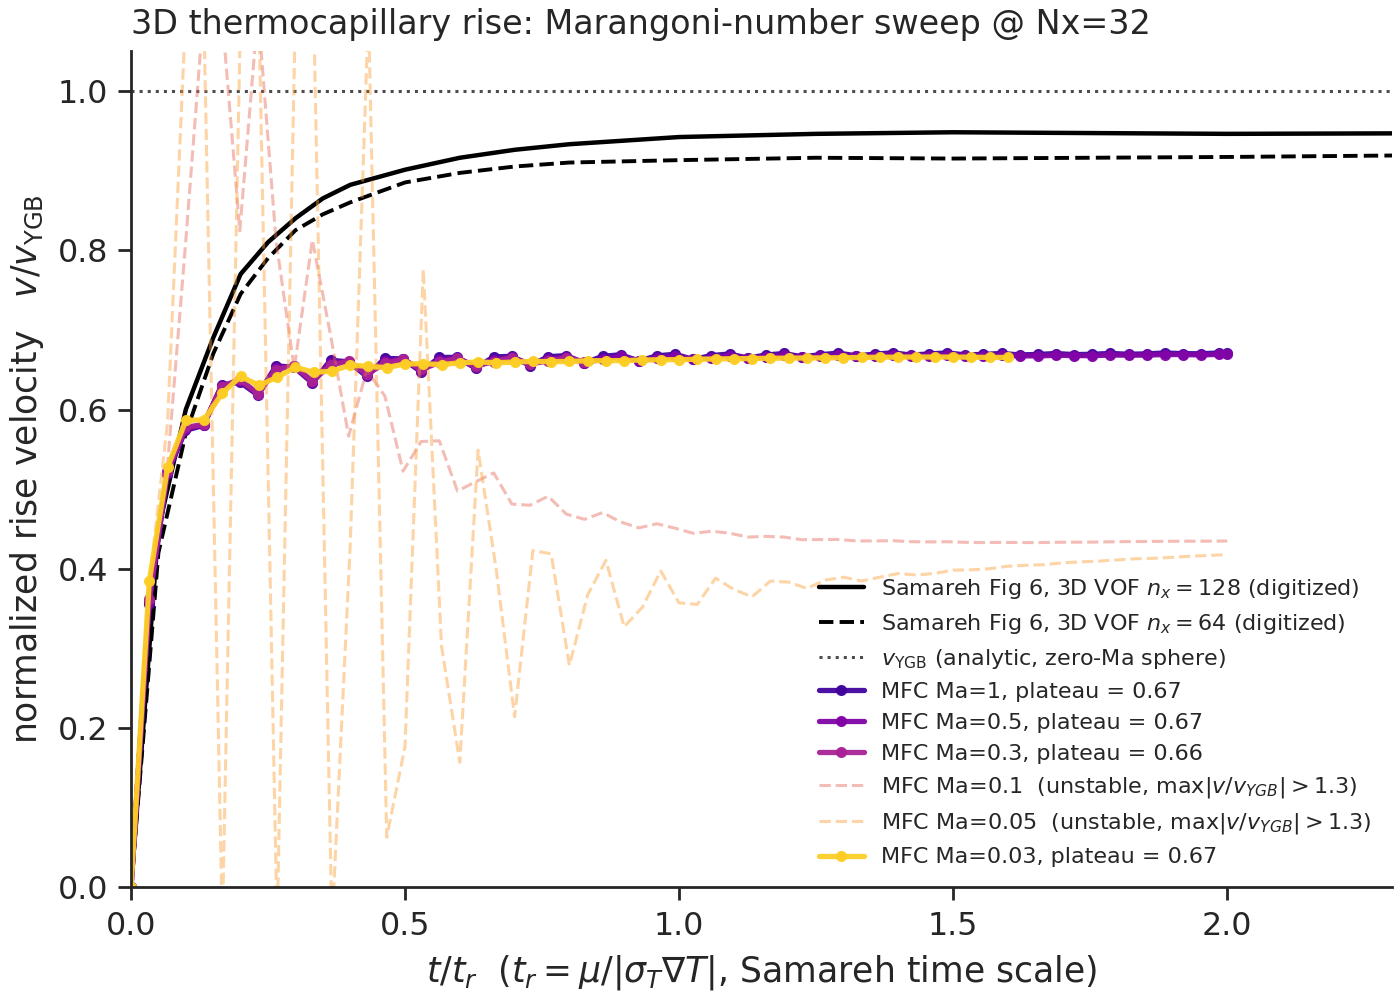
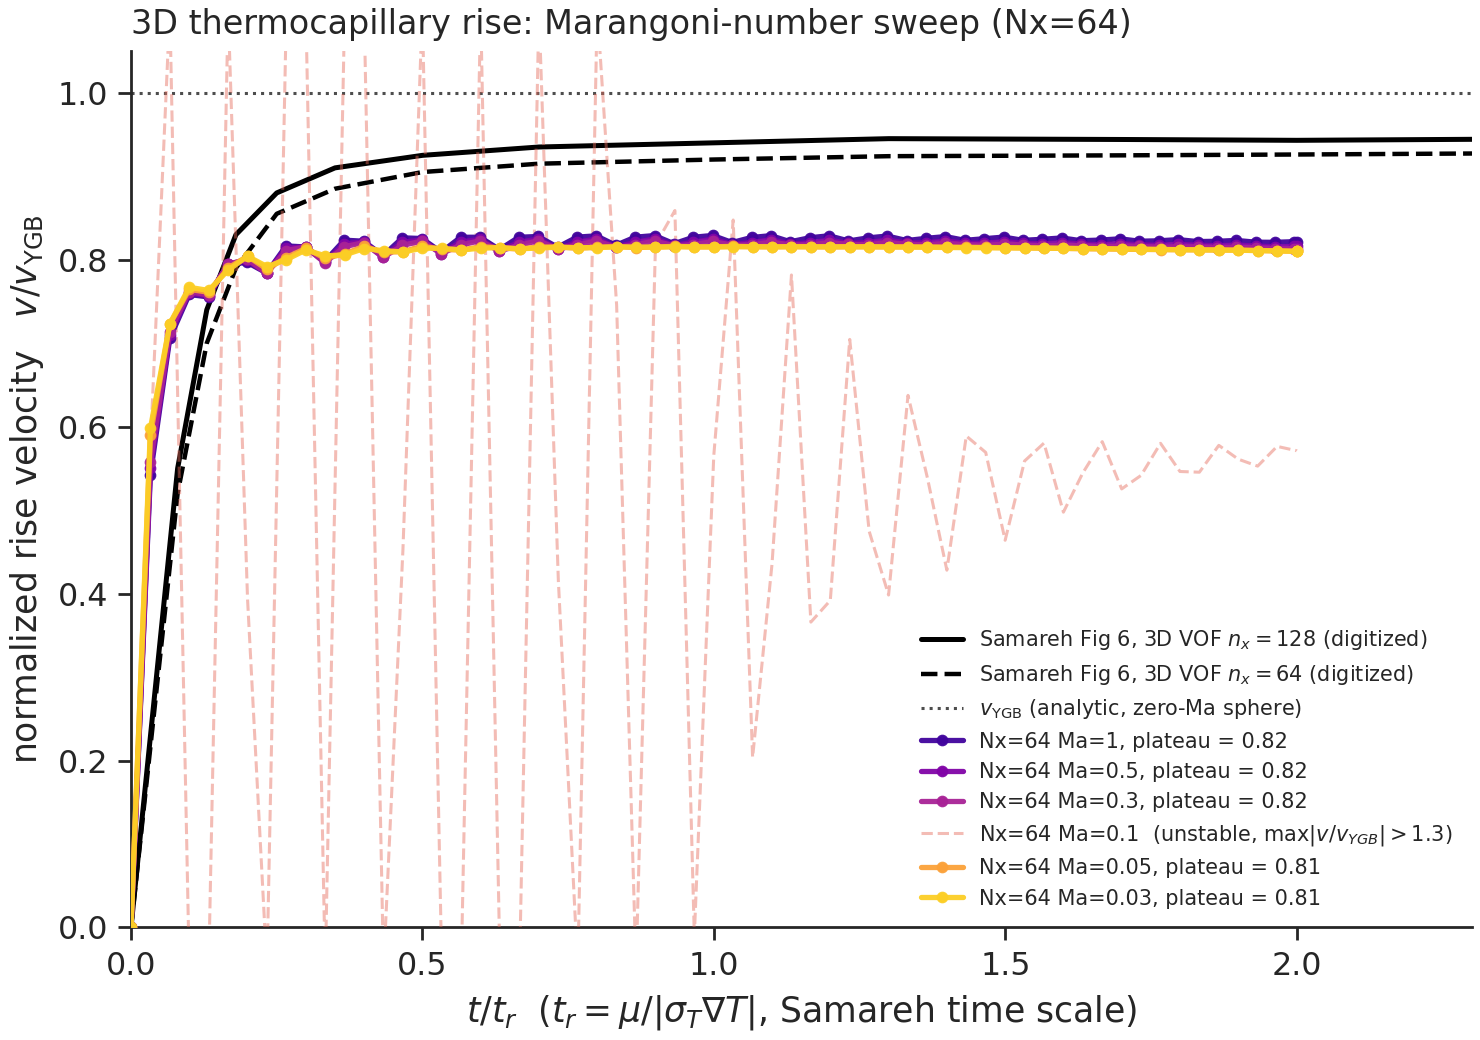
3D_thermocapillary_migration: recreate fig5 Ma-overlay at Nx=64 + dt-instability diagnosis
Overlay the Nx=64 conduction Marangoni sweep on the existing Samareh Fig 6 axes (grid-overlay
ready for Nx=128). Stable plateau climbs 0.67 (Nx=32) -> 0.82, toward Samareh's VOF band; only
Ma=0.1 stays unstable at Nx=64 (Ma=0.05 stabilized). diag_dt_swap/diag_fields document that the
Ma-instability is a dt-limited coupled conduction<->acoustic checkerboard, not a CFL or WENO artifact.

diff --git a/examples/3D_thermocapillary_migration/diag_fields.py b/examples/3D_thermocapillary_migration/diag_fields.py
@@ -1,0 +1,93 @@
+#!/usr/bin/env python3
+"""Cell-resolved midplane (z = Nz/2) slices of a 3D thermocapillary run, to characterize the
+Ma-instability's spatial structure: a box-filling acoustic standing wave vs an interface-localized
+blow-up. Lead with the raw field; extract scalars after.
+
+Plots vy (rise velocity), |v|, and the dilatation-free pressure proxy (total energy density, an
+acoustic-wave tracer) on the x-y midplane, with the color interface c=0.5 contour overlaid.
+
+Conserved layout (model_eqns=3, num_fluids=2, surface_tension; nvars=11): 0,1 = partial densities,
+2,3,4 = x/y/z-momentum, 5 = total energy, 6,7 = volume fractions, 8,9 = phasic internal energies,
+10 = color. All read from each run's simulation.inp so it can't silently mis-slice.
+
+Usage:  python3 diag_fields.py <run_dir> [step]   (step defaults to last snapshot)
+"""
+import glob
+import os
+import re
+import sys
+
+import matplotlib
+matplotlib.use("Agg")
+import matplotlib.pyplot as plt
+import numpy as np
+
+
+def read_inp(path):
+    out = {}
+    for line in open(path):
+        if "=" in line:
+            k, v = line.split("=", 1)
+            out[k.strip().lower()] = v.strip().rstrip(",")
+    return out
+
+
+def main():
+    run = sys.argv[1]
+    P = read_inp(os.path.join(run, "simulation.inp"))
+    f = lambda k: float(P[k.lower()])
+    nx, ny, nz = int(f("m")) + 1, int(f("n")) + 1, int(f("p")) + 1
+    cells = nx * ny * nz
+    rd = os.path.join(run, "restart_data")
+    steps = sorted(int(m.group(1)) for ff in glob.glob(os.path.join(rd, "lustre_*.dat"))
+                   if (m := re.search(r"lustre_(\d+)\.dat$", ff)))
+    step = int(sys.argv[2]) if len(sys.argv) > 2 else steps[-1]
+    snap = np.fromfile(os.path.join(rd, f"lustre_{step}.dat"), np.float64)
+    nvars = snap.size // cells
+
+    def fld(i):
+        return snap[i * cells:(i + 1) * cells].reshape(nz, ny, nx)
+
+    xb = np.fromfile(os.path.join(rd, "lustre_x_cb.dat"), np.float64)[-(nx + 1):]
+    yb = np.fromfile(os.path.join(rd, "lustre_y_cb.dat"), np.float64)[-(ny + 1):]
+    x = 0.5 * (xb[:-1] + xb[1:]); y = 0.5 * (yb[:-1] + yb[1:])
+
+    rho = fld(0) + fld(1)
+    kz = nz // 2
+    vy = (fld(3) / rho)[kz]
+    vx = (fld(2) / rho)[kz]
+    vmag = np.sqrt(vx**2 + vy**2)
+    E = fld(5)[kz]            # total energy density -- acoustic/compression tracer
+    c = np.clip(fld(nvars - 1)[kz], 0, 1)
+
+    dt = f("dt"); t_r = 7.5
+    fig, axes = plt.subplots(1, 3, figsize=(15, 5.2), constrained_layout=True)
+    for ax, data, title, cmap in [
+        (axes[0], vy, r"$v_y$ (rise velocity)", "RdBu_r"),
+        (axes[1], vmag, r"$|v|$", "viridis"),
+        (axes[2], E, "total energy density (acoustic tracer)", "magma"),
+    ]:
+        vmaxa = np.percentile(np.abs(data), 99.5)
+        if cmap == "RdBu_r":
+            im = ax.pcolormesh(x, y, data, cmap=cmap, vmin=-vmaxa, vmax=vmaxa, shading="auto")
+        else:
+            im = ax.pcolormesh(x, y, data, cmap=cmap, shading="auto")
+        ax.contour(x, y, c, levels=[0.5], colors="lime", linewidths=1.3)
+        ax.set_aspect("equal"); ax.set_title(title, fontsize=10)
+        ax.set_xlabel("x"); fig.colorbar(im, ax=ax, shrink=0.8)
+    axes[0].set_ylabel("y (rise axis)")
+    fig.suptitle(f"{os.path.basename(run)}  step={step}  t/t_r={step*dt/t_r:.3f}  (nx={nx} ny={ny} nz={nz})", fontsize=11)
+    viz = os.path.join(run, "viz"); os.makedirs(viz, exist_ok=True)
+    dst = os.path.join(viz, f"fields_{step:06d}.png")
+    fig.savefig(dst, dpi=130); plt.close(fig)
+    # scalars: peak velocity, and how much of it sits FAR from the drop (a box acoustic mode fills
+    # the domain; an interface blow-up is localized near c=0.5).
+    far = np.abs(y) > 0.75 * yb[-1]
+    print(f"{os.path.basename(run)} step={step} t/t_r={step*dt/t_r:.3f}: "
+          f"max|vy|={np.abs(vy).max():.4e}  max|v|={vmag.max():.4e}  "
+          f"max|vy| in far-field rows={np.abs(vy[far]).max():.4e}")
+    print(f"  wrote {dst}")
+
+
+if __name__ == "__main__":
+    main()

diff --git a/examples/3D_thermocapillary_migration/diag_dt_swap.py b/examples/3D_thermocapillary_migration/diag_dt_swap.py
@@ -1,0 +1,66 @@
+#!/usr/bin/env python3
+"""Diagnosis summary: the Ma-instability is set by the TIMESTEP, not the Marangoni number.
+
+Plots v/v_YGB(t) for the Nx=32 controlled experiments. The dt-swap pair is the proof: at FIXED Ma
+(fixed conduction strength k_therm), the big acoustic-limited dt is unstable while the small
+diffusion-limited dt is stable -- in BOTH directions:
+  Ma=0.1 : big dt (ma0p1) unstable  vs  small dt (ma0p1_dtlo) stable
+  Ma=0.03: small dt (ma0p03) stable vs  big dt (ma0p03_dthi) -> ICFL blow-up
+So dt is the lever; the apparent non-monotonicity in Ma is just that dt is acoustic-pinned for
+Ma>=0.0625 then diffusion-limited (smaller) below.
+
+Usage:  python3 diag_dt_swap.py
+"""
+import os
+import sys
+
+import matplotlib
+matplotlib.use("Agg")
+import matplotlib.pyplot as plt
+import numpy as np
+
+HERE = os.path.dirname(os.path.abspath(__file__))
+sys.path.insert(0, os.path.join(HERE, "..", "2D_thermocapillary_migration"))
+from plot import PLATE_STYLE, color_weighted_vy, v_ygb_ratio  # noqa: E402
+
+BASE = os.path.join(HERE, "runs", "diag_nx32")
+# (label, legend, color, linestyle)
+SERIES = [
+    ("ma0p3",      "Ma=0.3,  acoustic dt  (stable ref)",            "#1b9e77", "-"),
+    ("ma0p1",      "Ma=0.1,  big (acoustic) dt  -> UNSTABLE",       "#d62728", "-"),
+    ("ma0p1_dtlo", "Ma=0.1,  small dt (= Ma=0.03's)  -> stable",    "#d62728", "--"),
+    ("ma0p05",     "Ma=0.05, dt at crossover  -> UNSTABLE",         "#ff7f0e", "-"),
+    ("ma0p03",     "Ma=0.03, small (diffusion) dt  -> stable",      "#1f77b4", "-"),
+]
+
+
+def main():
+    with plt.rc_context(PLATE_STYLE):
+        fig, ax = plt.subplots(figsize=(8.0, 5.2), constrained_layout=True)
+        ax.axhline(1.3, color="0.6", ls=":", lw=1.0)
+        ax.text(0.02, 1.32, "unstable threshold (max|v/v_YGB|>1.3)", color="0.5", fontsize=8)
+        for label, leg, c, ls in SERIES:
+            out = color_weighted_vy(os.path.join(BASE, label))
+            if out is None or len(out[0]) < 3:
+                print(f"  {label}: few snaps, skip"); continue
+            x, y = v_ygb_ratio(out)
+            ax.plot(x, np.clip(y, -0.3, 2.5), ls, color=c, lw=1.8, alpha=0.9, label=leg)
+        # ma0p03_dthi blew up (ICFL) at step 13 -- mark it
+        ax.scatter([13 * 2.668e-3 / 7.5], [2.4], marker="X", s=120, color="k", zorder=6)
+        ax.annotate("Ma=0.03 at big dt:\nICFL blow-up, step 13", xy=(13 * 2.668e-3 / 7.5, 2.4),
+                    xytext=(0.25, 2.15), fontsize=8.5, color="k",
+                    arrowprops=dict(arrowstyle="->", color="0.4"))
+        ax.set_xlim(0, 0.65); ax.set_ylim(-0.3, 2.6)
+        ax.set_xlabel(r"$t / t_r$")
+        ax.set_ylabel(r"rise velocity   $v / v_{\mathrm{YGB}}$")
+        ax.set_title("3D thermocapillary @ Nx=32: dt sets stability, not Ma\n"
+                     "(at fixed Ma, big dt unstable / small dt stable -- both directions)",
+                     fontsize=11, loc="left")
+        ax.legend(loc="upper right", fontsize=8.5, frameon=False)
+        dst = os.path.join(HERE, "figures", "diag_dt_swap.png")
+        fig.savefig(dst, dpi=200); plt.close(fig)
+        print(f"  wrote {dst}")
+
+
+if __name__ == "__main__":
+    main()
